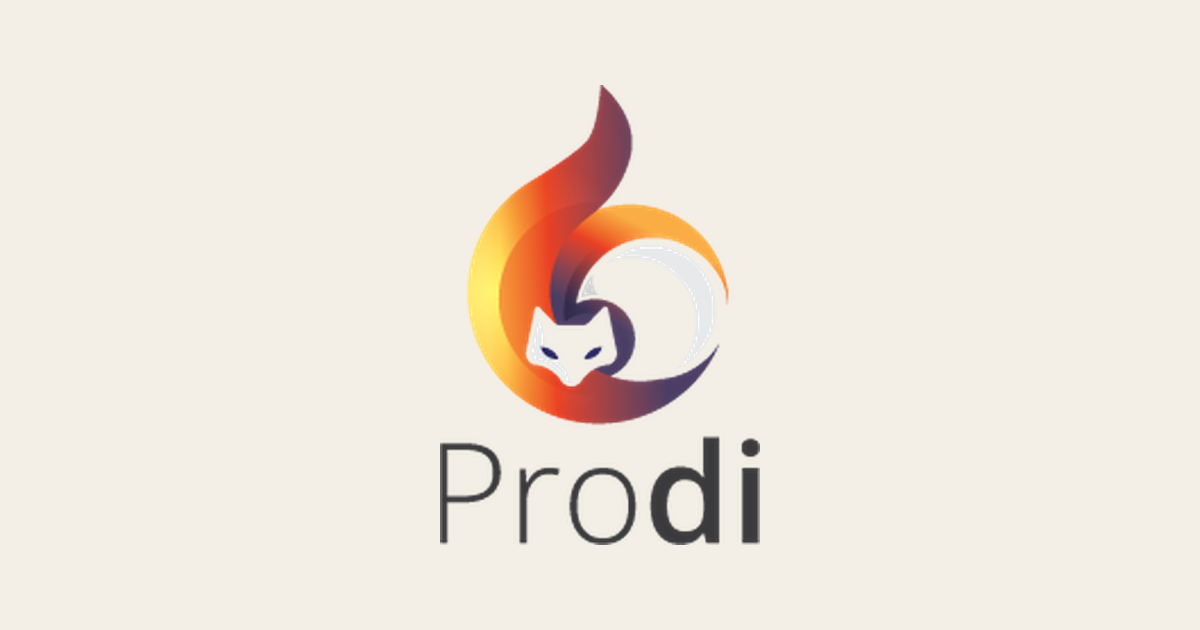
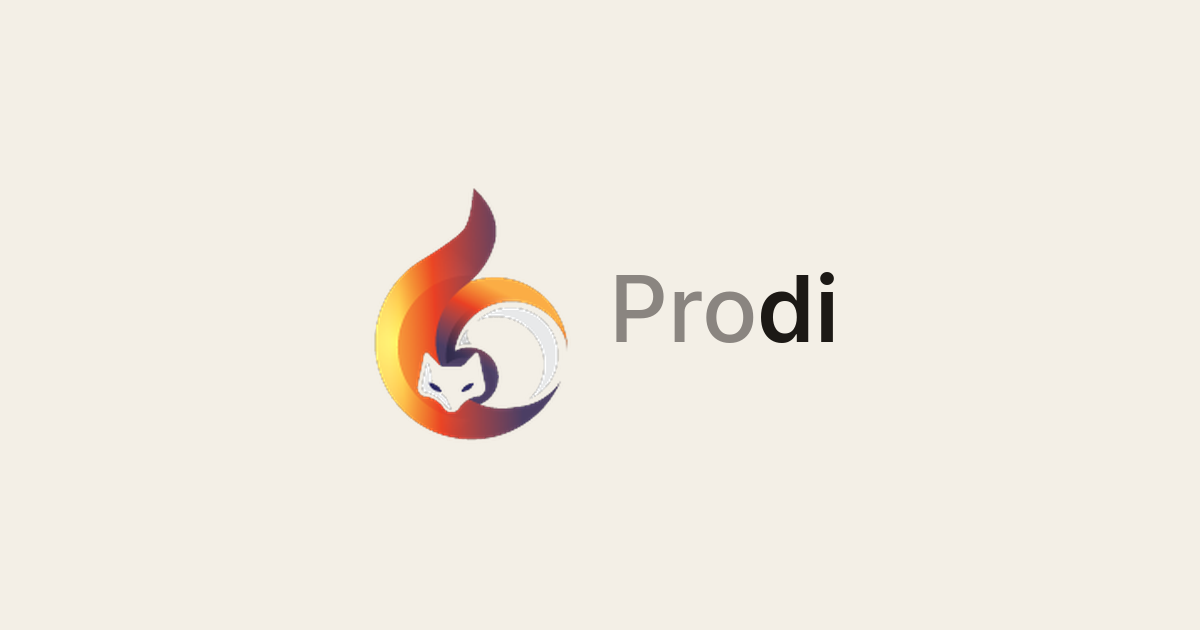
Place the Prodi wordmark beside the fox and open the offer to more clients.
The header and footer use the icon with Prodi to the right. Footer and homepage copy no longer name Filip or limit the work to bilingual sites for small firms.

Changed region(s): [[0.3083, 0.1206, 0.7092, 0.8746]]

diff --git a/lang/sv/site.php b/lang/sv/site.php
@@ -3,10 +3,10 @@
 return [
 
     'meta' => [
-        'home_title' => 'Prodi — tvåspråkiga hemsidor för småföretag',
-        'home_description' => 'Tvåspråkig hemsida på svenska och polska, Google-företagsprofil och kontaktformulär. Klart på cirka två veckor, från 4 900 kr exkl. moms. Prodi i Märsta.',
+        'home_title' => 'Prodi — hemsidor för företag',
+        'home_description' => 'Hemsidor på svenska, polska och fler språk när det behövs. Google-företagsprofil och kontaktformulär. Klart på cirka två veckor, från 4 900 kr exkl. moms. Prodi i Märsta.',
         'contact_title' => 'Begär offert — Prodi',
-        'contact_description' => 'Berätta om firman och vilket paket du tittar på. Filip återkommer personligen. Start 4 900 kr, Firma 7 900 kr, exkl. moms.',
+        'contact_description' => 'Berätta om firman och vilket paket du tittar på. Vi återkommer personligen. Start 4 900 kr, Firma 7 900 kr, exkl. moms.',
         'privacy_title' => 'Integritetspolicy — Prodi',
         'privacy_description' => 'Så hanterar Prodi AB uppgifter från offertformuläret och från lead-annonser på Meta.',
         'cleaning_title' => 'Exempeldesign: städfirma — Prodi',
@@ -35,9 +35,9 @@ return [
     ],
 
     'hero' => [
-        'eyebrow' => 'Webbyrå i Märsta · för småföretag',
-        'title' => 'En tvåspråkig hemsida för ditt företag. Klar på cirka två veckor.',
-        'lead' => 'Vi bygger en tvåspråkig hemsida på svenska och polska åt ditt företag, sätter upp din Google-företagsprofil och ett kontaktformulär. Klart på cirka två veckor, från 4 900 kr exkl. moms.',
+        'eyebrow' => 'Webbyrå i Märsta',
+        'title' => 'En hemsida för ditt företag. Klar på cirka två veckor.',
+        'lead' => 'Vi bygger en hemsida åt ditt företag, på svenska, polska och fler språk när det behövs, sätter upp din Google-företagsprofil och ett kontaktformulär. Klart på cirka två veckor, från 4 900 kr exkl. moms.',
         'primary' => 'Begär offert',
         'secondary' => 'Se paketen',
         'price_from' => 'från',
@@ -51,8 +51,8 @@ return [
     ],
 
     'audience' => [
-        'label' => 'För småföretag',
-        'text' => 'För småföretag utan sida, med en sida som inte jobbar, eller som bara finns på Facebook. Bygg, städ, verkstad, butik och andra firmor. Polska är en styrka när det passar, inte ett krav.',
+        'label' => 'För företag',
+        'text' => 'Utan sida, med en sida som inte jobbar, eller som bara finns på Facebook. Bygg, städ, verkstad, butik och andra verksamheter. Svenska, polska och fler språk när det behövs.',
         'trades' => [
             'Bygg och renovering',
             'Städ',
@@ -78,8 +78,8 @@ return [
             'individual' => 'Individuellt',
         ],
         'schema' => [
-            'start' => 'En sida på polska och svenska, mobil, kontaktformulär, Google-företagsprofil och grundläggande SEO. 4 900 kr exkl. moms.',
-            'firma' => 'Upp till fem undersidor på polska och svenska, Google-företagsprofil och lokal SEO. 7 900 kr exkl. moms.',
+            'start' => 'En sida på svenska, polska och fler språk när det behövs, mobil, kontaktformulär, Google-företagsprofil och grundläggande SEO. 4 900 kr exkl. moms.',
+            'firma' => 'Upp till fem undersidor, Google-företagsprofil och lokal SEO. Fler språk när det behövs. 7 900 kr exkl. moms.',
             'opieka' => 'Hosting, SSL, säkerhetskopior och små textändringar upp till 30 minuter per månad. 299 kr per månad exkl. moms, utan bindningstid.',
             'individual' => 'Fler än fem sidor, flera orter eller extra funktioner. Från 9 900 kr, individuell offert, exkl. moms.',
         ],
@@ -88,7 +88,7 @@ return [
             'cadence' => 'engång · exkl. moms',
             'fit' => 'För en firma som räcker med ett visitkort på nätet: butik, frisör, verkstad.',
             'points' => [
-                'En sida på polska och svenska',
+                'Svenska, polska och fler språk när det behövs',
                 'Anpassad för mobil',
                 'Kontaktformulär',
                 'Google-företagsprofil',
@@ -101,7 +101,7 @@ return [
             'fit' => 'För en tjänstefirma med jobb att visa, till exempel målare eller renovering, eller några butiker.',
             'points' => [
                 'Upp till fem undersidor, till exempel tjänster, galleri och kontakt',
-                'Polska och svenska',
+                'Svenska, polska och fler språk när det behövs',
                 'Google-företagsprofil',
                 'Lokal SEO',
             ],
@@ -146,7 +146,7 @@ return [
             ],
             [
                 'title' => 'Material och bygge',
-                'text' => 'Du skickar underlag. Vi bygger sidan på polska och svenska, cirka två veckor från att materialet är inne.',
+                'text' => 'Du skickar underlag. Vi bygger sidan på svenska, polska och fler språk när det behövs, cirka två veckor från att materialet är inne.',
             ],
             [
                 'title' => 'Publicering',
@@ -166,7 +166,7 @@ return [
             'Företagsnamn, logotyp om du har en, kontaktuppgifter, adress och öppettider',
             'Tjänster eller sortiment, gärna med ungefärliga priser',
             'Bilder på jobb, butik eller team — eller ett ja till bilder från Facebook eller Google',
-            'En kort beskrivning på polska. Den svenska texten skriver vi',
+            'En kort beskrivning av firman. Vi skriver texten på svenska, polska och fler språk när det behövs',
             'Tillgång till nuvarande domän, eller ett ja till att registrera en ny i ditt namn',
             'Tillgång till ett Google-konto för Google-företagsprofilen, eller ett ja till att vi skapar den',
             'En person som godkänner utkastet',
@@ -177,12 +177,12 @@ return [
         'title' => 'Varför Prodi',
         'items' => [
             [
-                'title' => 'På svenska, och på polska',
-                'text' => 'Sidan görs på svenska så lokala kunder hittar dig. Går det lättare på polska tar Filip jobbet på polska också.',
+                'title' => 'Flera språk',
+                'text' => 'Sidan görs på svenska så lokala kunder hittar dig. Polska och fler språk när det behövs.',
             ],
             [
                 'title' => 'Lokalt',
-                'text' => 'Filip finns i Märsta, nära Stockholm och Uppsala. Vi kan ta en kaffe.',
+                'text' => 'Vi finns i Märsta, nära Stockholm och Uppsala. Vi kan ta en kaffe.',
             ],
             [
                 'title' => 'Fasta priser',
@@ -383,13 +383,13 @@ return [
 
     'closing' => [
         'title' => 'Säg till om du vill ha en sida.',
-        'text' => 'Skriv några rader om firman. Filip återkommer personligen.',
+        'text' => 'Skriv några rader om firman. Vi återkommer personligen.',
         'button' => 'Begär offert',
     ],
 
     'contact' => [
         'title' => 'Begär offert',
-        'lead' => 'Berätta kort om firman och vilket paket du tittar på. Filip återkommer personligen.',
+        'lead' => 'Berätta kort om firman och vilket paket du tittar på. Vi återkommer personligen.',
         'aside' => 'Start 4 900 kr, Firma 7 900 kr, Individuellt från 9 900 kr, individuell offert. Skötsel 299 kr per månad. Allt exkl. moms.',
     ],
 
@@ -427,7 +427,7 @@ return [
             'package_invalid' => 'Välj ett av paketen i listan.',
             'message_required' => 'Skriv ett kort meddelande.',
             'message_max' => 'Meddelandet får vara högst 5 000 tecken.',
-            'mail_failed' => 'Förfrågan är sparad, men mejlet gick inte iväg. Skriv till :email så tar Filip det därifrån.',
+            'mail_failed' => 'Förfrågan är sparad, men mejlet gick inte iväg. Skriv till :email så tar vi det därifrån.',
         ],
     ],
 
@@ -459,7 +459,7 @@ return [
     ],
 
     'footer' => [
-        'blurb' => 'Prodi gör tvåspråkiga hemsidor för småföretag. Filip Kostrzewski, Märsta.',
+        'blurb' => 'Prodi bygger hemsidor för företag. Svenska, polska och fler språk när det behövs.',
         'prices' => 'Priser exkl. moms.',
         'org_number' => 'Prodi AB · org.nr :number',
         'rights' => 'Prodi',

diff --git a/lang/pl/site.php b/lang/pl/site.php
@@ -3,10 +3,10 @@
 return [
 
     'meta' => [
-        'home_title' => 'Prodi — dwujęzyczne strony dla małych firm',
-        'home_description' => 'Dwujęzyczna strona PL/SV, profil Google Business i formularz kontaktowy. Gotowe w ok. 2 tygodnie, od 4 900 kr exkl. moms. Prodi w Märsta.',
+        'home_title' => 'Prodi — strony dla firm',
+        'home_description' => 'Strony po szwedzku, po polsku i w innych językach, kiedy trzeba. Profil Google Business i formularz. Gotowe w ok. 2 tygodnie, od 4 900 kr exkl. moms. Prodi w Märsta.',
         'contact_title' => 'Poproś o wycenę — Prodi',
-        'contact_description' => 'Napisz krótko o firmie i o pakiecie. Filip odezwie się osobiście. Start 4 900 kr, Firma 7 900 kr, exkl. moms.',
+        'contact_description' => 'Napisz krótko o firmie i o pakiecie. Odezwę się osobiście. Start 4 900 kr, Firma 7 900 kr, exkl. moms.',
         'privacy_title' => 'Polityka prywatności — Prodi',
         'privacy_description' => 'Jak Prodi AB przetwarza dane z formularza wyceny i z reklam leadowych Meta.',
         'cleaning_title' => 'Przykładowy projekt: firma sprzątająca — Prodi',
@@ -35,9 +35,9 @@ return [
     ],
 
     'hero' => [
-        'eyebrow' => 'Studio stron www w Märsta · po polsku i po szwedzku',
-        'title' => 'Dwujęzyczna strona dla Twojej firmy. Gotowa w ok. 2 tygodnie.',
-        'lead' => 'Zrobię Ci dwujęzyczną stronę PL/SV, ustawię Google Business Profile i formularz kontaktowy — gotowe w ok. 2 tygodnie, od 4 900 kr exkl. moms.',
+        'eyebrow' => 'Studio stron www w Märsta',
+        'title' => 'Strona dla Twojej firmy. Gotowa w ok. 2 tygodnie.',
+        'lead' => 'Zrobię stronę dla Twojej firmy, po szwedzku, po polsku i w innych językach, kiedy trzeba. Ustawię Google Business Profile i formularz kontaktowy — gotowe w ok. 2 tygodnie, od 4 900 kr exkl. moms.',
         'primary' => 'Poproś o wycenę',
         'secondary' => 'Zobacz pakiety',
         'price_from' => 'od',
@@ -51,8 +51,8 @@ return [
     ],
 
     'audience' => [
-        'label' => 'Dla małych firm',
-        'text' => 'Bez strony, ze stroną, która nie działa, albo tylko z Facebookiem. W pierwszej kolejności polskie firmy w Szwecji, a także inne małe firmy.',
+        'label' => 'Dla firm',
+        'text' => 'Bez strony, ze stroną, która nie działa, albo tylko z Facebookiem. Sklep, sprzątanie, warsztat i inne działalności. Po szwedzku, po polsku i w innych językach, kiedy trzeba.',
         'trades' => [
             'Budowa i remonty',
             'Sprzątanie',
@@ -78,8 +78,8 @@ return [
             'individual' => 'Indywidualnie',
         ],
         'schema' => [
-            'start' => 'Jedna strona po polsku i szwedzku, mobile, formularz kontaktowy, Google Business Profile i podstawowe SEO. 4 900 kr exkl. moms.',
-            'firma' => 'Do pięciu podstron po polsku i szwedzku, Google Business Profile i lokalne SEO. 7 900 kr exkl. moms.',
+            'start' => 'Jedna strona po szwedzku, po polsku i w innych językach, kiedy trzeba. Wersja mobilna, formularz kontaktowy, Google Business Profile i podstawowe SEO. 4 900 kr exkl. moms.',
+            'firma' => 'Do pięciu podstron, Google Business Profile i lokalne SEO. Kolejne języki, kiedy trzeba. 7 900 kr exkl. moms.',
             'opieka' => 'Hosting, SSL, kopie zapasowe i drobne zmiany treści do 30 minut miesięcznie. 299 kr miesięcznie exkl. moms, bez okresu wiązania.',
             'individual' => 'Więcej niż pięć stron, kilka lokalizacji albo dodatkowe funkcje. Od 9 900 kr, wycena indywidualna, exkl. moms.',
         ],
@@ -88,7 +88,7 @@ return [
             'cadence' => 'jednorazowo · exkl. moms',
             'fit' => 'Dla firmy, której wystarczy wizytówka: sklep, fryzjer, mechanik.',
             'points' => [
-                'Jedna strona po polsku i szwedzku',
+                'Po szwedzku, po polsku i w innych językach, kiedy trzeba',
                 'Działa na telefonie',
                 'Formularz kontaktowy',
                 'Google Business Profile',
@@ -101,7 +101,7 @@ return [
             'fit' => 'Dla firmy usługowej z realizacjami, na przykład malarza lub ekipy remontowej, albo kilku sklepów.',
             'points' => [
                 'Do pięciu podstron, na przykład usługi, galeria i kontakt',
-                'Po polsku i po szwedzku',
+                'Po szwedzku, po polsku i w innych językach, kiedy trzeba',
                 'Google Business Profile',
                 'Lokalne SEO',
             ],
@@ -146,7 +146,7 @@ return [
             ],
             [
                 'title' => 'Materiały i realizacja',
-                'text' => 'Wysyłasz materiały. Zbuduję stronę po polsku i szwedzku, ok. 2 tygodnie od ich otrzymania.',
+                'text' => 'Wysyłasz materiały. Zbuduję stronę po szwedzku, po polsku i w innych językach, kiedy trzeba. Ok. 2 tygodnie od ich otrzymania.',
             ],
             [
                 'title' => 'Publikacja',
@@ -166,7 +166,7 @@ return [
             'Nazwa firmy, logo jeśli jest, dane kontaktowe, adres i godziny otwarcia',
             'Lista usług albo asortyment, ewentualnie orientacyjne ceny',
             'Zdjęcia realizacji, sklepu albo zespołu — albo zgoda na zdjęcia z Facebooka lub Google',
-            'Krótki opis firmy po polsku. Wersję szwedzką napiszę ja',
+            'Krótki opis firmy. Napiszę tekst po szwedzku, po polsku i w innych językach, kiedy trzeba',
             'Dostęp do obecnej domeny albo zgoda na rejestrację nowej na Ciebie',
             'Dostęp do konta Google pod profil firmy albo zgoda, żebym założył profil',
             'Jedna osoba, która akceptuje projekt',
@@ -177,8 +177,8 @@ return [
         'title' => 'Dlaczego Prodi',
         'items' => [
             [
-                'title' => 'Po polsku i po szwedzku',
-                'text' => 'Z Filipem dogadasz się po polsku. Strona jest też po szwedzku, żeby znaleźli Cię lokalni klienci.',
+                'title' => 'Więcej niż dwa języki',
+                'text' => 'Strona po szwedzku, żeby znaleźli Cię lokalni klienci. Po polsku i w innych językach, kiedy trzeba.',
             ],
             [
                 'title' => 'Lokalnie',
@@ -383,13 +383,13 @@ return [
 
     'closing' => [
         'title' => 'Napisz, jeśli chcesz stronę.',
-        'text' => 'Kilka zdań o firmie wystarczy. Filip odezwie się osobiście.',
+        'text' => 'Kilka zdań o firmie wystarczy. Odezwę się osobiście.',
         'button' => 'Poproś o wycenę',
     ],
 
     'contact' => [
         'title' => 'Poproś o wycenę',
-        'lead' => 'Napisz krótko o firmie i o pakiecie, na który patrzysz. Filip odezwie się osobiście.',
+        'lead' => 'Napisz krótko o firmie i o pakiecie, na który patrzysz. Odezwę się osobiście.',
         'aside' => 'Start 4 900 kr, Firma 7 900 kr, Indywidualnie od 9 900 kr, wycena indywidualna. Opieka 299 kr miesięcznie. Wszystko exkl. moms.',
     ],
 
@@ -459,7 +459,7 @@ return [
     ],
 
     'footer' => [
-        'blurb' => 'Prodi robi dwujęzyczne strony dla małych firm. Filip Kostrzewski, Märsta.',
+        'blurb' => 'Prodi robi strony dla firm. Po szwedzku, po polsku i w innych językach, kiedy trzeba.',
         'prices' => 'Ceny exkl. moms.',
         'org_number' => 'Prodi AB · org.nr :number',
         'rights' => 'Prodi',

diff --git a/tests/Feature/Http/Controllers/PageControllerTest.php b/tests/Feature/Http/Controllers/PageControllerTest.php
@@ -39,7 +39,11 @@ class PageControllerTest extends TestCase
         $response = $this->get('/');
 
         $response->assertSee('<html lang="sv"', false);
-        $response->assertSee('Vi bygger en tvåspråkig hemsida på svenska och polska åt ditt företag, sätter upp din Google-företagsprofil och ett kontaktformulär. Klart på cirka två veckor, från 4 900 kr exkl. moms.', false);
+        $response->assertSee('Vi bygger en hemsida åt ditt företag, på svenska, polska och fler språk när det behövs, sätter upp din Google-företagsprofil och ett kontaktformulär. Klart på cirka två veckor, från 4 900 kr exkl. moms.', false);
+        $response->assertSee('Prodi bygger hemsidor för företag. Svenska, polska och fler språk när det behövs.', false);
+        $response->assertDontSee('småföretag', false);
+        $response->assertDontSee('tvåspråk', false);
+        $response->assertDontSee('Filip Kostrzewski', false);
         $response->assertSee('från 9 900 kr, individuell offert', false);
         $response->assertSee('559214-9370', false);
         $response->assertDontSee('ungefär två veckor', false);
@@ -47,7 +51,7 @@ class PageControllerTest extends TestCase
         $response->assertDontSee('15 000', false);
         $response->assertSee('4 900 kr', false);
         $response->assertSee('Skötsel', false);
-        $response->assertSee('På svenska, och på polska', false);
+        $response->assertSee('Flera språk', false);
         $response->assertDontSee('Opieka', false);
         $response->assertDontSee('Du pratar med Filip på polska', false);
         $html = $response->getContent();
@@ -68,8 +72,9 @@ class PageControllerTest extends TestCase
         $response->assertSee('package=start#offert', false);
         $response->assertSee('hreflang="pl"', false);
         $response->assertSee('hreflang="x-default"', false);
-        $response->assertSee('images/prodi-logo.png', false);
-        $response->assertSee('alt="Prodi"', false);
+        $response->assertSee('images/prodi-icon.png', false);
+        $response->assertSee('>Pro</span><span class="font-semibold text-ink">di</span>', false);
+        $response->assertDontSee('images/prodi-logo.png', false);
         $response->assertSee('apple-touch-icon.png', false);
         $response->assertSee('favicon.ico', false);
         $response->assertDontSee('favicon.svg', false);
@@ -88,11 +93,16 @@ class PageControllerTest extends TestCase
         $response = $this->get('/pl');
 
         $response->assertSee('<html lang="pl"', false);
-        $response->assertSee('images/prodi-logo.png', false);
-        $response->assertSee('alt="Prodi"', false);
-        $response->assertSee('Zrobię Ci dwujęzyczną stronę PL/SV', false);
+        $response->assertSee('images/prodi-icon.png', false);
+        $response->assertSee('>Pro</span><span class="font-semibold text-ink">di</span>', false);
+        $response->assertDontSee('images/prodi-logo.png', false);
+        $response->assertSee('Zrobię stronę dla Twojej firmy, po szwedzku, po polsku i w innych językach, kiedy trzeba.', false);
+        $response->assertSee('Prodi robi strony dla firm. Po szwedzku, po polsku i w innych językach, kiedy trzeba.', false);
+        $response->assertDontSee('małych firm', false);
+        $response->assertDontSee('dwujęzyczn', false);
+        $response->assertDontSee('Filip Kostrzewski', false);
         $response->assertSee('Opieka', false);
-        $response->assertSee('Zbuduję stronę po polsku i szwedzku', false);
+        $response->assertSee('Zbuduję stronę po szwedzku, po polsku i w innych językach, kiedy trzeba.', false);
         $response->assertDontSee('Skötsel', false);
         $response->assertSee('ok. 2 tygodnie', false);
         $response->assertSee('od 9 900 kr, wycena indywidualna', false);

diff --git a/resources/views/components/layouts/site.blade.php b/resources/views/components/layouts/site.blade.php
@@ -32,8 +32,8 @@
 
         <header class="sticky top-0 z-40 border-b border-line/80 bg-paper/90 backdrop-blur-md">
             <div class="mx-auto flex max-w-6xl items-center justify-between gap-4 px-5 py-3">
-                <a href="{{ $home }}" class="inline-flex shrink-0">
-                    <img src="{{ asset('images/prodi-logo.png') }}" alt="Prodi" width="160" height="225" class="h-14 w-auto sm:h-16">
+                <a href="{{ $home }}" class="inline-flex shrink-0 items-center" aria-label="Prodi">
+                    <x-brand />
                 </a>
 
                 <nav aria-label="{{ __('site.a11y.primary') }}" class="hidden items-center gap-6 text-sm text-muted md:flex">
@@ -92,8 +92,8 @@
         <footer class="border-t border-line">
             <div class="mx-auto grid max-w-6xl gap-8 px-5 py-12 md:grid-cols-[1.4fr_1fr]">
                 <div class="flex flex-col gap-3">
-                    <a href="{{ $home }}" class="inline-flex w-fit">
-                        <img src="{{ asset('images/prodi-logo.png') }}" alt="Prodi" width="160" height="225" class="h-24 w-auto">
+                    <a href="{{ $home }}" class="inline-flex w-fit items-center" aria-label="Prodi">
+                        <x-brand size="lg" />
                     </a>
                     <p class="max-w-md text-sm leading-6 text-muted">{{ __('site.footer.blurb') }}</p>
                     <p class="text-sm text-muted">{{ __('site.footer.prices') }}</p>

diff --git a/tests/Feature/Http/Controllers/ContactInquiryControllerTest.php b/tests/Feature/Http/Controllers/ContactInquiryControllerTest.php
@@ -182,13 +182,13 @@ class ContactInquiryControllerTest extends TestCase
             ->post(route('sv.contact.store'), $this->payload())
             ->assertRedirect(route('sv.contact'))
             ->assertSessionHasErrors([
-                'form' => 'Förfrågan är sparad, men mejlet gick inte iväg. Skriv till filip@prodi.se så tar Filip det därifrån.',
+                'form' => 'Förfrågan är sparad, men mejlet gick inte iväg. Skriv till filip@prodi.se så tar vi det därifrån.',
             ]);
 
         $this->followingRedirects()
             ->from(route('sv.contact'))
             ->post(route('sv.contact.store'), $this->payload(['email' => 'anna2@example.com']))
-            ->assertSee('Förfrågan är sparad, men mejlet gick inte iväg. Skriv till filip@prodi.se så tar Filip det därifrån.', false)
+            ->assertSee('Förfrågan är sparad, men mejlet gick inte iväg. Skriv till filip@prodi.se så tar vi det därifrån.', false)
             ->assertDontSee('Server Error', false);
 
         $this->from(route('pl.contact'))

diff --git a/resources/views/errors/404.blade.php b/resources/views/errors/404.blade.php
@@ -15,7 +15,7 @@
     </head>
     <body class="bg-paper text-ink antialiased">
         <main class="mx-auto flex min-h-screen max-w-xl flex-col justify-center gap-4 px-5">
-            <img src="{{ asset('images/prodi-logo.png') }}" alt="Prodi" width="160" height="225" class="h-20 w-auto">
+            <x-brand size="lg" />
             <h1 class="font-serif text-4xl">{{ __('site.errors.404_title') }}</h1>
             <p class="text-muted">{{ __('site.errors.404_text') }}</p>
             <a class="inline-flex w-fit rounded-full bg-pine px-5 py-3 text-sm font-semibold text-paper" href="{{ \App\Support\Locales::urlFor('home', app()->getLocale()) }}">{{ __('site.errors.404_home') }}</a>

diff --git a/resources/views/errors/419.blade.php b/resources/views/errors/419.blade.php
@@ -15,7 +15,7 @@
     </head>
     <body class="bg-paper text-ink antialiased">
         <main class="mx-auto flex min-h-screen max-w-xl flex-col justify-center gap-4 px-5">
-            <img src="{{ asset('images/prodi-logo.png') }}" alt="Prodi" width="160" height="225" class="h-20 w-auto">
+            <x-brand size="lg" />
             <h1 class="font-serif text-4xl">{{ __('site.errors.419_title') }}</h1>
             <p class="text-muted">{{ __('site.errors.419_text') }}</p>
             <a class="inline-flex w-fit rounded-full bg-pine px-5 py-3 text-sm font-semibold text-paper" href="{{ \App\Support\Locales::urlFor('contact', app()->getLocale()) }}">{{ __('site.nav.contact') }}</a>

diff --git a/resources/views/components/brand.blade.php b/resources/views/components/brand.blade.php
@@ -1,0 +1,13 @@
+@props(['size' => 'md'])
+
+@php
+    $iconClass = $size === 'lg' ? 'h-12 w-12' : 'h-9 w-9';
+    $textClass = $size === 'lg' ? 'text-3xl' : 'text-2xl';
+@endphp
+
+<span {{ $attributes->class('inline-flex items-center gap-2.5') }}>
+    <img src="{{ asset('images/prodi-icon.png') }}" alt="" width="115" height="150" class="{{ $iconClass }} shrink-0 object-contain">
+    <span class="{{ $textClass }} font-sans leading-none tracking-tight">
+        <span class="font-medium text-[#8a8580]">Pro</span><span class="font-semibold text-ink">di</span>
+    </span>
+</span>

diff --git a/app/Support/StructuredData.php b/app/Support/StructuredData.php
@@ -57,11 +57,7 @@ final class StructuredData
             '@id' => $url.'/#organization',
             'name' => Company::name(),
             'url' => $url,
-            'logo' => $url.'/images/prodi-logo.png',
-            'founder' => [
-                '@type' => 'Person',
-                'name' => Company::owner(),
-            ],
+            'logo' => $url.'/images/prodi-icon.png',
             'address' => $address,
             'areaServed' => [
                 ['@type' => 'City', 'name' => 'Märsta'],
